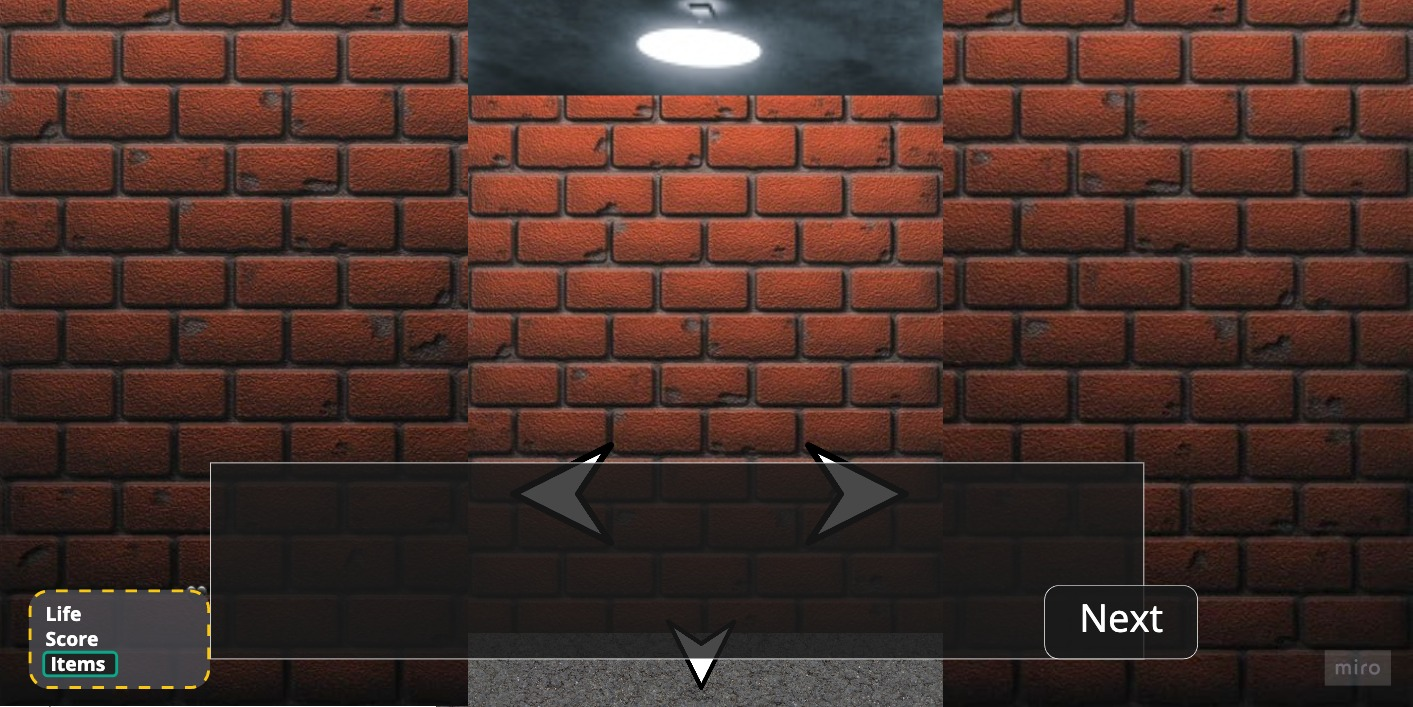
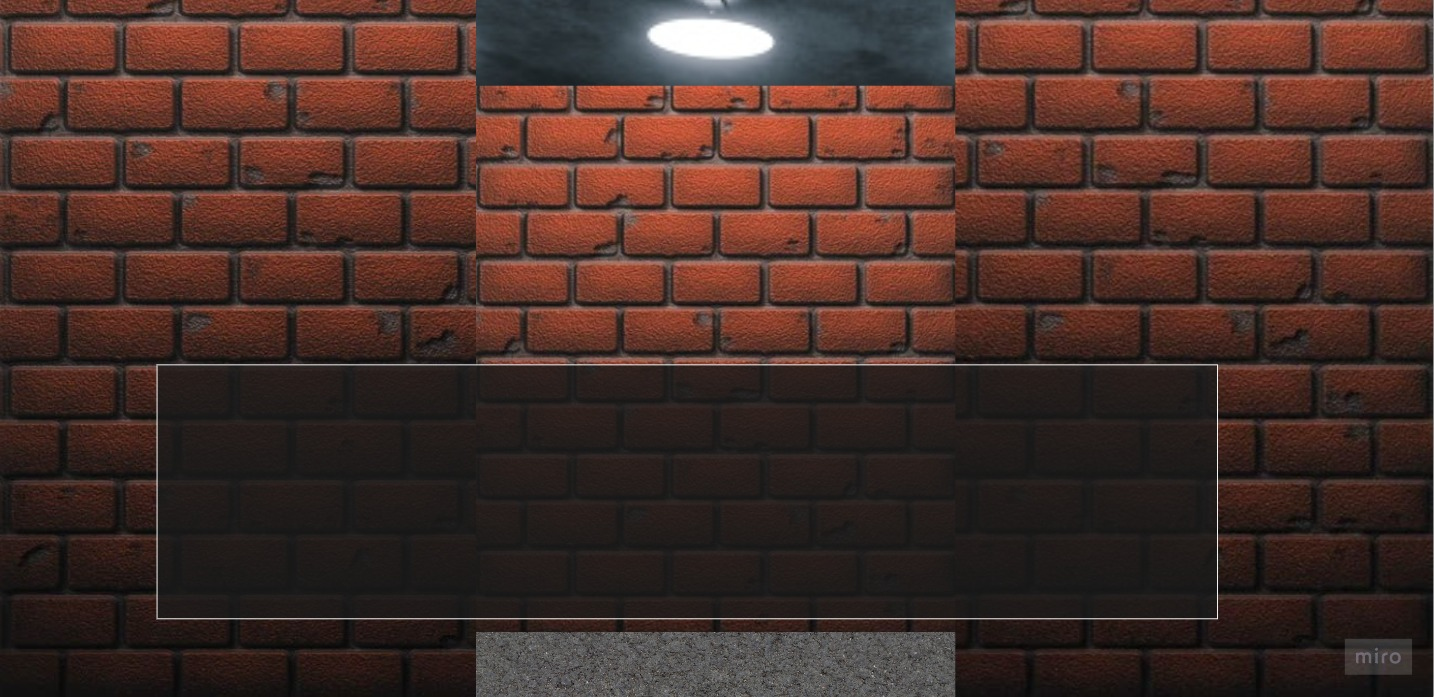
Adapted javascript and images after player and added RequestMapping

Changed region(s): [[0.0, 0.0, 1.0, 1.0], [0.0311, 0.3615, 0.0623, 0.3917]]

diff --git a/src/main/resources/static/js/introView.js b/src/main/resources/static/js/introView.js
@@ -7,32 +7,25 @@ $('#doorIntroImg').hide();
 $('#gameStartText').hide();
 $('#gameStartImg').hide();
 
-/*document.getElementById("introPart2").style.display="none";
-document.getElementById("introPart3").style.display="none";
-document.getElementById("introPart4").style.display="none";
-document.getElementById("doorIntro").style.display="none";
-document.getElementById("gameStart").style.display="none";
-document.getElementById("gameStartImg").style.display="none";
-document.getElementById("doorIntroImg").style.display="none";
-document.getElementById("IntroBase2").style.display="none";*/
-showText();
+document.getElementById("nextButton").addEventListener("click", clickNext);
 
 
 
-function showText(){
+    function clickNext(){
 
     let baseImg1 = document.getElementById("introBaseImg").src;
     let baseImg2 = document.getElementById("introBase2Img").src;
     let baseImg3 = document.getElementById("gameStartImg").src;
-    /*if(onclick*/
+    let baseImg4 = document.getElementById("doorIntroImg").src;
+    let locationHref = location.href = "player";
+
 
     $('introText1').hide();
     $('introText2').show();
 
 
-   /* document.getElementById("introText2").style.display="block";
-    document.getElementById("introText1").style.display="none";
-*/    if(baseImg1.includes("introText2")) {
+
+    if(baseImg1.includes("introText2")) {
         $('introText2').hide();
         $('introText3').show();
 
@@ -45,10 +38,7 @@ function showText(){
         $(baseImg2).show();
         $('introText4').show();
 
-        /*document.getElementById("IntroBase2Img").style.display="block";
-        document.getElementById("introText4").style.display="block";
-        document.getElementById("IntroBaseImg").style.display="none";
-        document.getElementById("introText3").style.display="none";*/
+
     }
     if(baseImg2.includes("introText4")) {
         $(baseImg2).hide();
@@ -56,22 +46,22 @@ function showText(){
         $(baseImg3).show();
         $('gameStartText').show();
 
-        /*document.getElementById("gameStartImg").style.display="block";
-        document.getElementById("gameStartText").style.display="block";
-        document.getElementById("introText4").style.display="none";*/
+
     }
 
     if(baseImg3.includes("gameStartText")) {
-        $(baseImg3).hide();
-        $('gameStartText').hide();
-        $('doorIntroImg').show();
-        $('doorIntroText').show();
-        /*document.getElementById("doorIntroImg").style.display="block";
-        document.getElementById("doorIntroText").style.display="block";
-        document.getElementById("gameStartImg").style.display="none";*/
+        location.href = "player";
+        
     }
-  /*  if(onclick) {*/
-        /*Till sist. Klickar du på den sista bilden så hänvisas du till en ny sida.*/
+    if(locationHref.includes ("BaseScreen.jpg")){
+            $(baseImg4).show();
+            $('doorIntroText').show();
+        }
+    if(baseImg4.includes('doorIntroText')) {
+            $(baseImg4).hide();
+            $('doorIntroText').hide();
+        }
+
 
 
 }

diff --git a/src/main/java/group1/horrorgame/demo/controllers/gameController.java b/src/main/java/group1/horrorgame/demo/controllers/gameController.java
@@ -35,6 +35,11 @@ public class gameController {
         return "jigsaw";
     }
 
+
+    @RequestMapping("/intro")
+    public String gameIntro(){
+        return "intro";
+    }
 //
 //    @Autowired
 //    PlayerService playerService;
